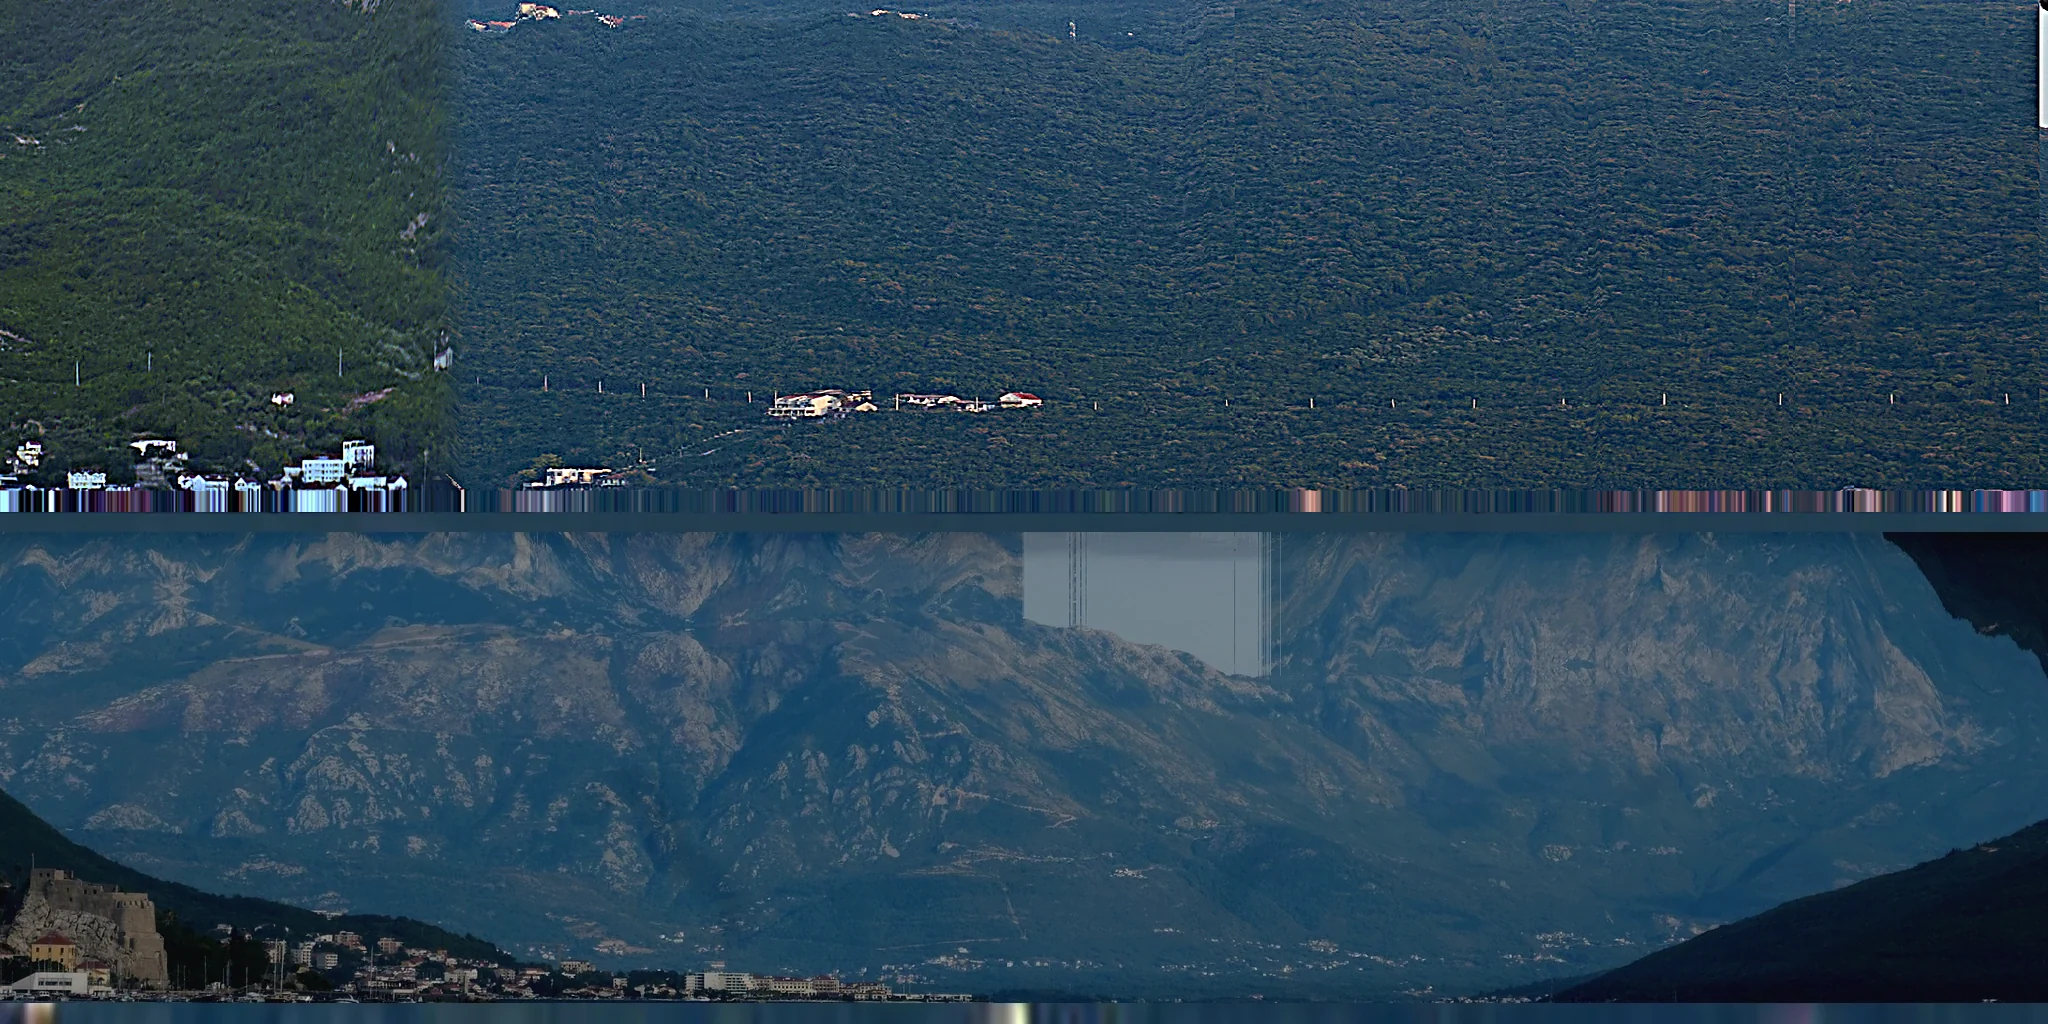
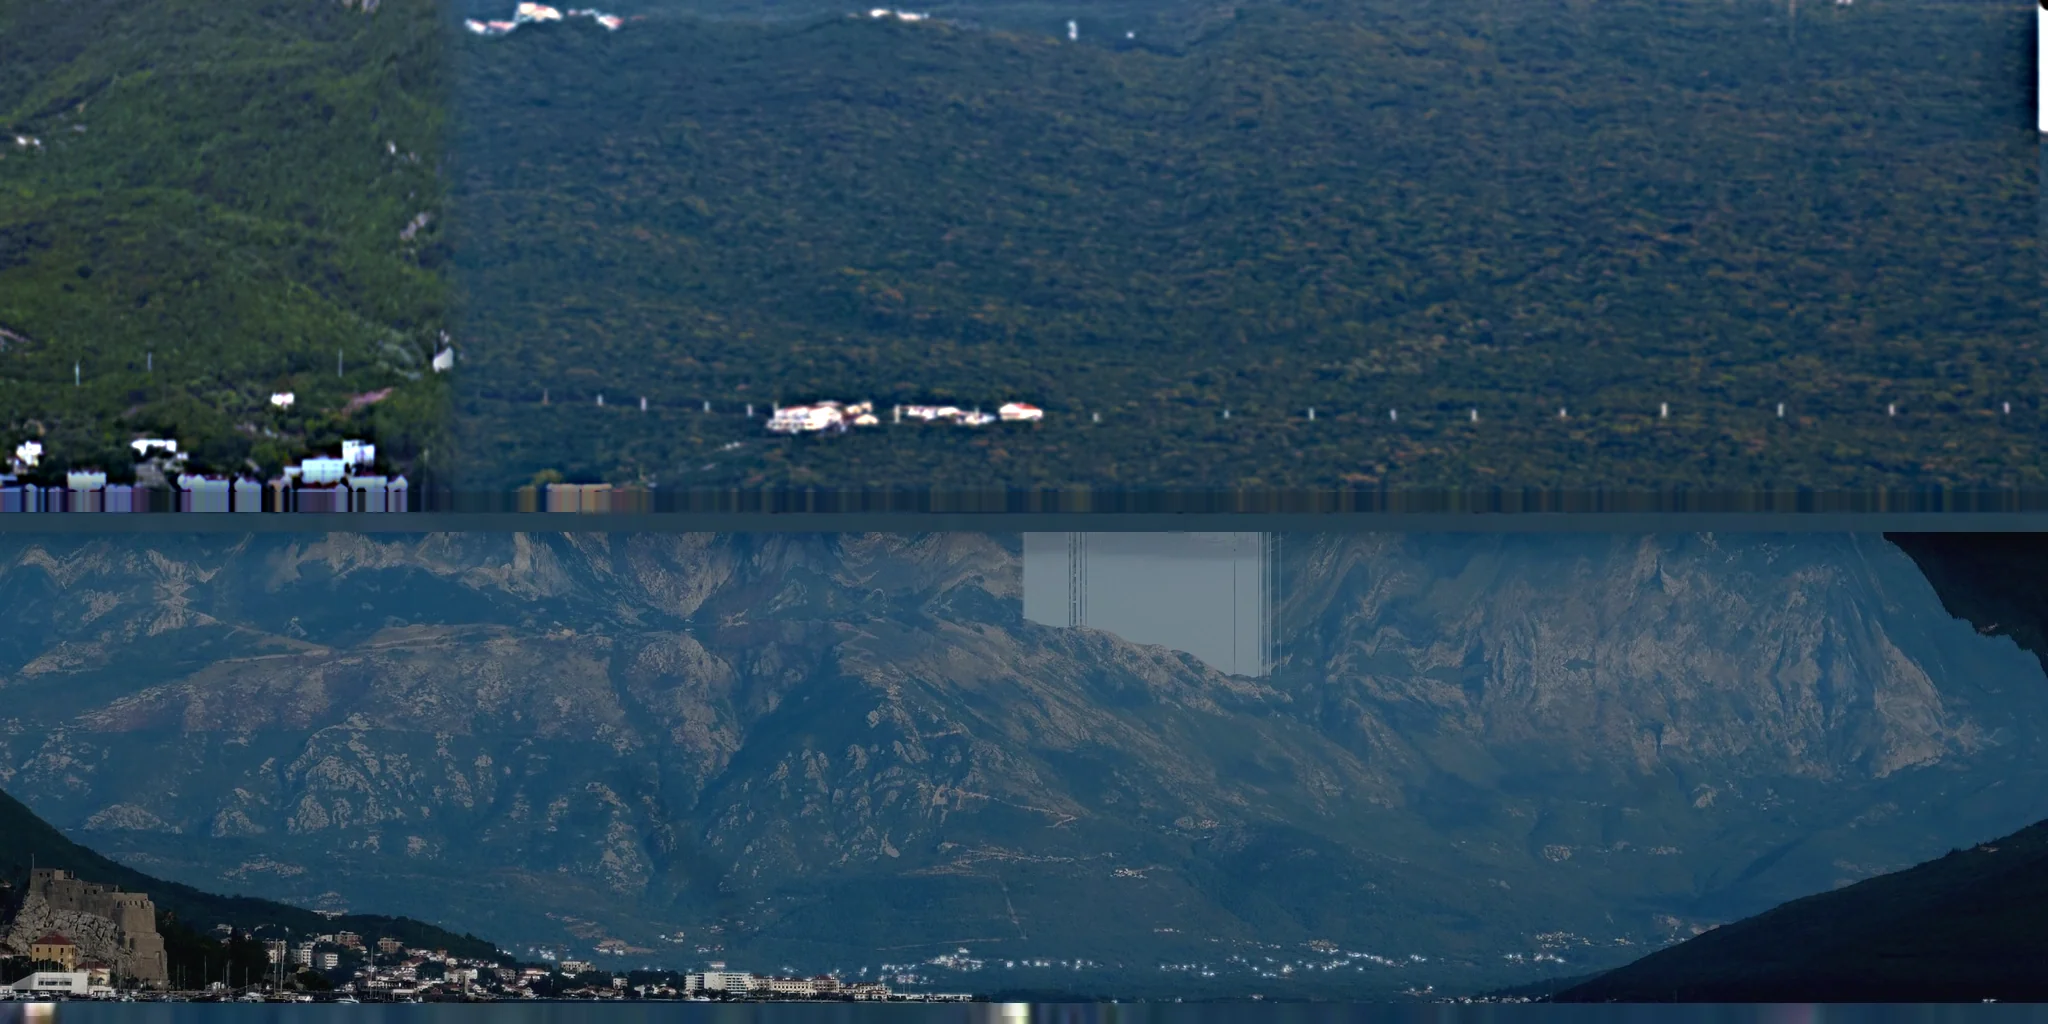
Make the terrain read at distance: rocky massif, legible towns, no speckle
Verified on the RTX through agent-browser against Igor's reference
photos of the bay.

The near band is rebuilt from the crisp DSC_2147 slope only. The
anisotropic filter samples the atlas at its native mip along the 5:1
minified axis, so 1-3 texel canopy grain aliased into uniform speckle on
screen; the band is now low-passed below screen scale and only the macro
structure (gullies, clumps, villages) is lifted. Houses are dilated and
lifted so villages survive minification, the shore rows are soft-clipped
so no white bar sits on the waterline, and the shader's procedural grain
on the near layer is halved.

The far massif is limestone in every reference, lighter than the
forested slopes. The far layer takes more photo weight and exposure and
less haze, shadow fill and desaturation, so the crags read, and the
shore rows of the far band get the same house emphasis so the town strip
along the waterline shows.

The atlas cache-buster is bumped; it must move on every atlas change.

diff --git a/assets/js/atmosphere.js b/assets/js/atmosphere.js
@@ -360,7 +360,7 @@
       // The far band carries transplanted canopy grain now — real material,
       // worth amplifying (the old 0.2 floor guarded interpolation mush).
       float terrainRelief = clamp(dot(photoCenter2 - localAverage, vec3(0.2126, 0.7152, 0.0722)) * 6.5, -0.22, 0.22);
-      photo *= 1.0 + terrainRelief * mix(0.45, 1.0, depth) * highlightGuard;
+      photo *= 1.0 + terrainRelief * mix(0.70, 1.0, depth) * highlightGuard;
 
       // The atlas is cut from the sunlit originals now — only a light
       // blue-cut remains so the forest does not go cold under the grade.
@@ -379,8 +379,10 @@
       // octave evaluated per screen pixel, like a game-engine detail map.
       float canopyGrain = fbm(vec2(sceneX(screenUv.x) * 38.0, screenUv.y * 64.0) + vec2(depth * 11.0, 0.0));
       float canopyFine = fbm(vec2(sceneX(screenUv.x) * 96.0, screenUv.y * 150.0) + vec2(depth * 5.0, 3.0));
-      photo *= 1.0 + ((canopyGrain - 0.5) * mix(0.14, 0.22, depth)
-        + (canopyFine - 0.5) * mix(0.11, 0.18, depth)) * highlightGuard;
+      // The near band carries real canopy grain now; the procedural octave
+      // on top of it read as uniform speckle noise once minified on screen.
+      photo *= 1.0 + ((canopyGrain - 0.5) * mix(0.14, 0.10, depth)
+        + (canopyFine - 0.5) * mix(0.11, 0.05, depth)) * highlightGuard;
 
       // Derive the light-facing normal from the photographed material. Using
       // the 2D skyline derivative here turns every ridge sample into a vertical
@@ -395,17 +397,22 @@
       float diffuse = clamp(dot(terrainNormal, sunriseDirection), 0.0, 1.0);
 
       float luminance = dot(photo, vec3(0.2126, 0.7152, 0.0722));
-      vec3 chroma = mix(vec3(luminance), photo, mix(0.76, 0.96, depth));
+      vec3 chroma = mix(vec3(luminance), photo, mix(0.84, 0.96, depth));
       // Bay haze leans blue-green in the references, not steel blue — the
       // far layer takes 38% of this tone and was reading slate because of it.
       vec3 coastalHaze = vec3(0.15, 0.255, 0.30);
       // The sunrise references show backlit slopes: mostly dark silhouette
       // material with texture, not sunlit green faces. Keep the exposure low
       // and let the warm rim light below carry the sunrise.
-      vec3 graded = chroma * mix(1.30, 1.40, depth);
+      // The references show the massif as PALE limestone, lighter than the
+      // forested near slopes, so the far layer takes more exposure.
+      vec3 graded = chroma * mix(1.52, 1.40, depth);
       // The far band is real crag material now (DSC_4377) — retain more of
       // its structure through the haze or it flattens back into vinyl.
-      graded = mix(coastalHaze, graded, mix(0.74, 0.90, depth));
+      // The far massif is limestone crag: haze, shadow fill and desaturation
+      // together halved its photographed contrast and it read as a smooth
+      // teal dome. Keep the rock legible through a thinner haze.
+      graded = mix(coastalHaze, graded, mix(0.88, 0.90, depth));
 
       // Preserve the cool photographic material, but model the sunrise as
       // side/front light rather than a backlight. The broad diffuse term keeps
@@ -414,7 +421,7 @@
       // As the sun climbs, its light reaches further across the bay.
       float sunriseReach = exp(-screenUv.x * mix(1.62, 1.0, sunProgress()));
       vec3 shadowBase = mix(vec3(0.09, 0.155, 0.19), vec3(0.05, 0.085, 0.07), depth);
-      graded = mix(shadowBase, graded, mix(0.80, 0.88, depth));
+      graded = mix(shadowBase, graded, mix(0.90, 0.88, depth));
       // The photograph already carries its own baked lighting. Re-lighting
       // it from atlas-gradient normals paints organic pale wisps over the
       // hazed far range — keep the synthetic relight mostly for the near
@@ -510,7 +517,7 @@
       // Skip the whole photo pipeline at full night — it mixes to nothing.
       float flankSlope = (farRidgeAt(screenUv.x + 0.015) - farRidgeAt(screenUv.x - 0.015)) / 0.03;
       if (u_night < 0.999) {
-        day = mix(day, photoMountainColor(screenUv, ridge, flankSlope, 0.0), u_mountain_photo_ready * 0.78);
+        day = mix(day, photoMountainColor(screenUv, ridge, flankSlope, 0.0), u_mountain_photo_ready * 0.90);
       }
       vec3 night = mix(vec3(0.018, 0.028, 0.041), vec3(0.052, 0.065, 0.078), haze * 0.30 + detail * 0.24);
       night += vec3(0.008, 0.010, 0.014) * moonlitFlank(flankSlope, height, detail);

diff --git a/layouts/_default/baseof.html b/layouts/_default/baseof.html
@@ -101,7 +101,7 @@
   <body class="builder-index page-{{ if .IsHome }}home{{ else }}inner{{ end }} kind-{{ .Kind }}{{ with .Section }} section-{{ . }}{{ end }}{{ with .File }} view-{{ .BaseFileName | urlize }}{{ end }}{{ with .Params.hero_flow }} has-system-hero{{ end }}{{ if and .IsSection (eq .Section "projects") }} has-work-atlas{{ end }}{{ if $hasAtmosphere }} has-atmosphere{{ else }} page-static-scene{{ end }}"{{ if .Site.Params.enableTwemoji }} onload='twemoji.parse(document.body)'{{ end }}>
     <a class="skip-link" href="#main-content">Skip to content</a>
     {{ if $hasAtmosphere }}
-      <canvas class="ambient-canvas" data-atmosphere data-skyline="{{ "/images/herceg-novi-skyline.png" | relURL }}?v=4" data-day-scene="{{ "/images/herceg-novi-day.webp" | relURL }}" data-mountain-scene="{{ "/images/herceg-novi-mountains.webp" | relURL }}?v=20" aria-hidden="true"></canvas>
+      <canvas class="ambient-canvas" data-atmosphere data-skyline="{{ "/images/herceg-novi-skyline.png" | relURL }}?v=4" data-day-scene="{{ "/images/herceg-novi-day.webp" | relURL }}" data-mountain-scene="{{ "/images/herceg-novi-mountains.webp" | relURL }}?v=24" aria-hidden="true"></canvas>
       {{ if .IsHome }}<span class="celestial-hint" data-celestial-hint aria-hidden="true"></span>{{ end }}
     {{ end }}
     <main class="site-shell">

diff --git a/.claude/napkin.md b/.claude/napkin.md
@@ -91,6 +91,7 @@
 | 2026-09-05 | self | Boosted the Milky Way cloud knots 10x expecting a band; nothing rendered | The galactic plane is NOT in this view (ESE, 100x67 deg, August 23:00 — Cygnus is near zenith, Cassiopeia is NE, both out of frame). The knots in rebuildStarField are dormant by geometry; do not fake a band. Sky depth comes from town light domes in nightSky instead |
 | 2026-09-05 | self | Night ship windows tinted (1.0,0.70,0.36) rendered neutral gray | filmGrade's warm gate (smoothstep 0.03-0.36 on R-B) needs town-light chroma to pass: use ratios like (1.0,0.46,0.13) for anything that must stay warm at night |
 | 2026-09-05 | self | Applied `temp/daytime-shader.patch` to the working tree for before/after screenshots while ANOTHER session was live-editing atmosphere.js (night ship lights) — the file changed under my backup/restore | Check `pgrep -fa 'hugo server'` and `git diff --stat` for a concurrent session before touching a tracked file; do comparison renders in a `git worktree`, never in the live tree. The patch (base 7d3b523) applies on 5c2294d+ only with `patch -p1 --fuzz=3`; it removes the ray fan + amber burst Igor asked for on 07-19 and replaces them with a compact disc — an art-direction reversal, not a refinement. Light-mode screenshots: init script `localStorage.setItem('varyvoda-theme','light')` + `reduced_motion="reduce"` + wait `canvas.shader-ready` |
+| 2026-09-05 | user | Landed the near-band retexture and Igor saw "still same shit": the atlas is a static file behind a manual `?v=` in baseof.html and I never bumped it; then the crisp 1:1 canopy band rendered as uniform speckle noise on his RTX, the towns/roads he could read in the old smeared band vanished, and the far massif ("that's Lovćen, should be rocky") stayed a smooth teal dome | (1) Bump `?v=` on EVERY atlas change, and after a layout edit `hugo server` may not rebuild at all — restart it and poll the served HTML for the new `?v=` before screenshotting. (2) Verify on the real GPU: `WAYLAND_DISPLAY=wayland-1 DISPLAY=:1 XDG_RUNTIME_DIR=/run/user/1000 agent-browser --session <mine> open --headed URL` (Hyprland; without the env it dies with "platform failed to initialize" and falls back to SwiftShader; the ds-v6/ds-v7 daemons are Igor's — never kill them). (3) Anisotropic filtering samples the atlas at its NATIVE mip along the 5:1 minified axis, so 1–3 texel grain aliases into speckle — low-pass the band (gaussian 1.4) below screen scale and lift only macro structure (unsharp r40/50 + r10/60); fine unsharp (2.2/170) is wrong for a minified band. (4) Settlements must be emphasized to survive: dilate bright low-chroma texels (MaxFilter 5) and lift ×1.2+25, but never in the last ~40 rows (the shore edge became a white bar) and soft-clip the bottom 24 rows' luma to ≤110. (5) Far layer per the refs = PALE limestone: photo weight 0.90, exposure 1.52, coastalHaze mix 0.88, shadowBase 0.90, chroma 0.84, relief 0.70; the far shore rows 950–1016 get the same house emphasis so the town strip reads |
 | 2026-09-05 | self | Middle path on the daytime patch: widened the additive bloom/aureole of the compact sun twice with no visible result (halo measured R-B 0-2/255, neutral gray) | Same ACES trap as 07-19, re-confirmed numerically: additive warm on the pale horizon sky tonemaps to neutral white. `daylightSun` now COMPOSITES — amber field mix (radius 0.24 aspect-corrected, 0.70) under a tight bloom (0.06 x0.55) + core 0.026. A wide bloom (0.10 x0.9) on top of the field re-clipped it back to gray; the field must carry the size, the bloom only the heat |
 | 2026-09-05 | user | Night liner as a grid of cabin-window rectangles: "looks like crap" — hard white dashes floating with no hull, and a mirrored barcode below | A ship across the bay at night is ONE warm glowing superstructure: soft deck bands (sine rows x noise21 lit/unlit runs) at sodium ratio (1.0,0.50,0.16) x0.85 under the ACES shoulder, a SPARSE scatter of brighter points (keep 0.74, 1.3), a gaussian bloom into the haze (0.34,0.20,0.09 x0.30) and the hull just lifted off the slope. The reflection is a single hull-wide smeared column (across-hull smoothstep + fbm streaks, (1-below)^2), never mirrored windows |
 | 2026-09-05 | env | Another process rewrote assets/js/atmosphere.js mid-session (created atmosphere.js.orig at 09:52, rolled back one of my edits; /tmp/shot.py was also overwritten by a different script) | Before each edit batch, grep the file for your own marker comments to confirm earlier edits are still present; use uniquely named scratch files (/tmp/varyvoda-night-shot.py), not /tmp/shot.py |
